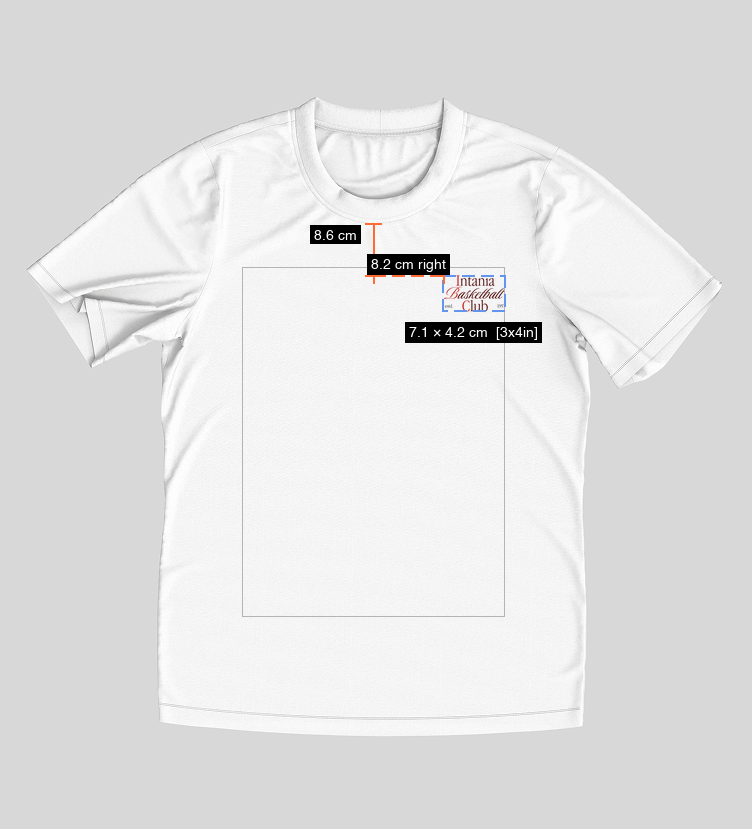
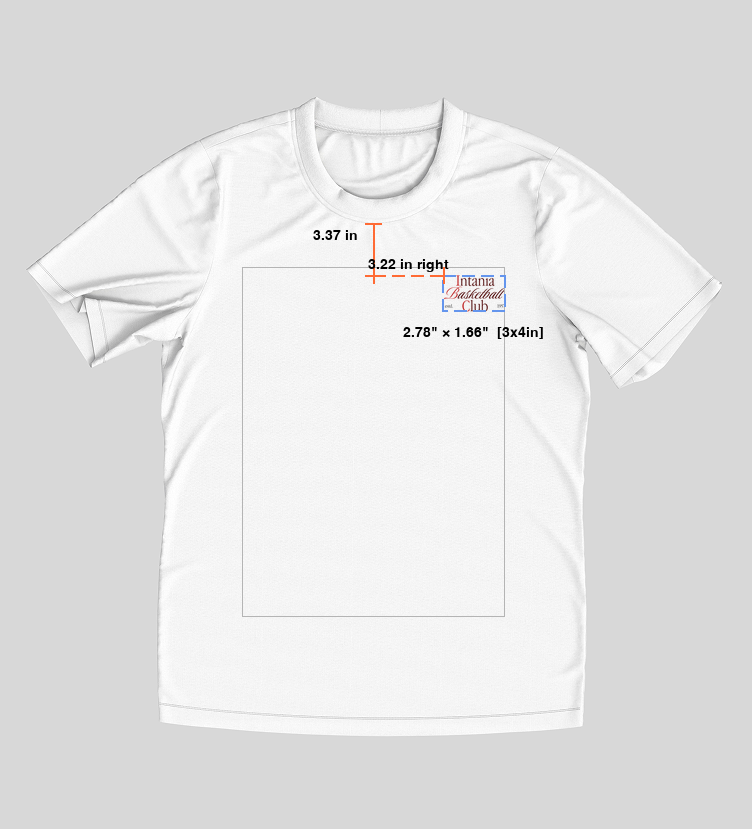
feat: Migrate print annotation script and labels from centimeters to inches, improve font loading, and update default mockup configuration.

Changed region(s): [[0.5199, 0.3619, 0.734, 0.4222], [0.4894, 0.3016, 0.6117, 0.3317], [0.3976, 0.2714, 0.4894, 0.3016]]

diff --git a/tools/annotate_print.py b/tools/annotate_print.py
@@ -9,7 +9,7 @@ Usage:
      (or set MOCKUP_IMAGE_PATH directly to override).
   4. Run:  python tools/annotate_print.py
   5. Outputs:
-       <input>_annotated.png   — dotted-line overlays + cm labels
+       <input>_annotated.png   — dotted-line overlays + inch labels
        <input>_mockup_<side>.png — design composited on shirt
 
 Dependencies:
@@ -23,20 +23,20 @@ import numpy as np
 from PIL import Image, ImageDraw, ImageFont
 
 # ─── CONFIG ──────────────────────────────────────────────────────────────────
-INPUT_PATH    = "/Volumes/My Passport/Personal_Project/PimSuea/tools/test_data/IBC_front_printfile.png"   # ← set this
+INPUT_PATH    = "/Volumes/My Passport/Personal_Project/PimSuea/tools/test_data/IBC_back_printfile.png"   # ← set this
 OUTPUT_PATH   = None                        # None = auto: <input>_annotated.png
-PHYSICAL_W_CM = 30.48                       # 12 inches
-PHYSICAL_H_CM = 40.64                       # 16 inches
+PHYSICAL_W_IN = 12.0                        # inches
+PHYSICAL_H_IN = 16.0                        # inches
 
 ALPHA_THRESHOLD = 10   # pixels with alpha <= this are treated as empty
 WHITE_THRESHOLD = 245  # for RGB images: channels all above this = background
 
 # ─── MOCKUP CONFIG ───────────────────────────────────────────────────────────
 SHIRT_COLOR = "white"   # 'white' or 'black'
-SHIRT_SIDE  = "front"   # 'front' or 'back'
+SHIRT_SIDE  = "back"   # 'front' or 'back'
 
 # Override mockup image path (None = auto: tools/mockups/<color>_<side>.png)
-MOCKUP_IMAGE_PATH = "/Volumes/My Passport/Personal_Project/PimSuea/tools/test_data/front_white_mock_template.png"
+MOCKUP_IMAGE_PATH = "/Volumes/My Passport/Personal_Project/PimSuea/tools/test_data/back_white_mock_template.png"
 
 # Mockup canvas size and print-area placement (pixels)
 _MOCKUP_W = 752
@@ -48,8 +48,8 @@ _PLACEMENTS = {
 
 # Collar positions in each mockup image (px from the top of the image)
 COLLAR_Y = {"front": 223, "back": 144}
-# Fixed real-world distance from collar to the top of the print area (3 inches)
-COLLAR_TO_PRINT_AREA_CM = 7.62
+# Fixed real-world distance from collar to the top of the print area
+COLLAR_TO_PRINT_AREA_IN = 3.0
 
 # Visual style (applied at preview scale)
 ORANGE      = (255, 107, 53, 255)   # dimension measurement lines + labels
@@ -68,13 +68,13 @@ MARGIN_TOP  = 60        # top margin reserved for X offset line + label
 # ─────────────────────────────────────────────────────────────────────────────
 
 
-def get_print_tier(w_cm: float, h_cm: float) -> str:
+def get_print_tier(w_in: float, h_in: float) -> str:
     """Mirror of getPrintTier in backend/src/utils/pricing.js."""
-    short, long_ = sorted([w_cm, h_cm])
+    short, long_ = sorted([w_in, h_in])
     # Custom inch-based tiers: 3x4in, A5=6x8in, A4=8x12in, A3=12x16in (catch-all)
-    if short <= 7.62  and long_ <= 10.16: return "3x4in"
-    if short <= 15.24 and long_ <= 20.32: return "A5"
-    if short <= 20.32 and long_ <= 30.48: return "A4"
+    if short <= 3.0 and long_ <= 4.0:  return "3x4in"
+    if short <= 6.0 and long_ <= 8.0:  return "A5"
+    if short <= 8.0 and long_ <= 12.0: return "A4"
     return "A3"
 
 
@@ -121,14 +121,10 @@ def draw_dashed_line(draw, x1, y1, x2, y2, dash=DASH_LEN, gap=GAP_LEN,
 
 
 def draw_label(draw, text, cx, cy, font):
-    """Draw text with a dark pill background, centered at (cx, cy)."""
+    """Draw bold black text centered at (cx, cy), no background."""
     bbox = draw.textbbox((0, 0), text, font=font)
     tw, th = bbox[2] - bbox[0], bbox[3] - bbox[1]
-    pad = 4
-    rx0, ry0 = cx - tw // 2 - pad, cy - th // 2 - pad
-    rx1, ry1 = cx + tw // 2 + pad, cy + th // 2 + pad
-    draw.rectangle([rx0, ry0, rx1, ry1], fill=DARK_BG)
-    draw.text((cx - tw // 2, cy - th // 2), text, fill=WHITE, font=font)
+    draw.text((cx - tw // 2, cy - th // 2), text, fill=(0, 0, 0, 255), font=font)
 
 
 def composite_on_mockup(
@@ -172,9 +168,19 @@ def composite_on_mockup(
     bx1 = px_off + int(measurements["x_max"] * sx)
     by1 = py_off + int(measurements["y_max"] * sy)
 
-    try:
-        font = ImageFont.truetype("/System/Library/Fonts/Helvetica.ttc", FONT_SIZE)
-    except Exception:
+    font = None
+    for path, idx in [
+        ("/System/Library/Fonts/Helvetica.ttc", 1),   # Helvetica Bold
+        ("/System/Library/Fonts/Supplemental/Arial Bold.ttf", 0),
+        ("/Library/Fonts/Arial Bold.ttf", 0),
+        ("/System/Library/Fonts/Helvetica.ttc", 0),   # fallback: regular
+    ]:
+        try:
+            font = ImageFont.truetype(path, FONT_SIZE, index=idx)
+            break
+        except Exception:
+            continue
+    if font is None:
         font = ImageFont.load_default()
 
     # Derived positions
@@ -197,7 +203,7 @@ def composite_on_mockup(
     draw.line([(collar_x, collar_y), (collar_x, elem_top_y)], fill=ORANGE, width=LINE_W)
     draw.line([(collar_x - TICK, collar_y),    (collar_x + TICK, collar_y)],    fill=ORANGE, width=LINE_W)
     draw.line([(collar_x - TICK, elem_top_y),  (collar_x + TICK, elem_top_y)],  fill=ORANGE, width=LINE_W)
-    y_total_label = f"{measurements['collar_to_elem_cm']:.1f} cm"
+    y_total_label = f"{measurements['collar_to_elem_in']:.2f} in"
     # Y label: hugs the collar tick from below, left side — always above X label
     draw_label(draw, y_total_label, collar_x - TICK - 30, collar_y + FONT_SIZE // 2 + 4, font)
 
@@ -207,7 +213,7 @@ def composite_on_mockup(
         draw_dashed_line(draw, collar_x, elem_top_y, bx0, elem_top_y, color=ORANGE)
         draw.line([(collar_x, elem_top_y - TICK), (collar_x, elem_top_y + TICK)], fill=ORANGE, width=LINE_W)
         draw.line([(bx0,      elem_top_y - TICK), (bx0,      elem_top_y + TICK)], fill=ORANGE, width=LINE_W)
-        x_label_text = f"{measurements['x_offset_cm']:.1f} cm {x_dir}"
+        x_label_text = f"{measurements['x_offset_in']:.2f} in {x_dir}"
         mid_h = (collar_x + bx0) // 2
         # X label: hugs the element-top tick from above — always below Y label
         draw_label(draw, x_label_text, mid_h, elem_top_y - FONT_SIZE // 2 - 4, font)
@@ -240,29 +246,29 @@ def annotate(input_path: str, output_path: str | None = None):
         img_full = Image.open(src).convert("RGBA")
         mockup_src_stem = src.stem
     W, H = img_full.size
-    px_to_cm = PHYSICAL_W_CM / W          # cm per pixel (full resolution)
+    px_to_in = PHYSICAL_W_IN / W          # inches per pixel (full resolution)
     center_x = W / 2
 
     x_min, y_min, x_max, y_max = find_content_bbox(img_full)
 
-    elem_w_cm   = (x_max - x_min) * px_to_cm
-    elem_h_cm   = (y_max - y_min) * px_to_cm
-    y_cm        = y_min * px_to_cm
-    x_offset_cm = abs(x_min - center_x) * px_to_cm
+    elem_w_in   = (x_max - x_min) * px_to_in
+    elem_h_in   = (y_max - y_min) * px_to_in
+    y_in        = y_min * px_to_in
+    x_offset_in = abs(x_min - center_x) * px_to_in
     x_dir       = ("right" if x_min > center_x + 1
                    else "left" if x_min < center_x - 1
                    else "centered")
-    tier        = get_print_tier(elem_w_cm, elem_h_cm)
+    tier        = get_print_tier(elem_w_in, elem_h_in)
 
     # ── Console summary ──────────────────────────────────────────────────────
     print(f"\n{'─'*48}")
     print(f"  File       : {src.name}")
-    print(f"  Image size : {W} × {H} px  ({PHYSICAL_W_CM} × {PHYSICAL_H_CM:.2f} cm)")
-    print(f"  1 px       = {px_to_cm*10:.4f} mm")
+    print(f"  Image size : {W} × {H} px  ({PHYSICAL_W_IN} × {PHYSICAL_H_IN:.2f} in)")
+    print(f"  1 px       = {px_to_in:.6f} in")
     print(f"{'─'*48}")
-    print(f"  Element    : {elem_w_cm:.2f} cm × {elem_h_cm:.2f} cm  [{tier}]")
-    print(f"  Y from top : {y_cm:.2f} cm")
-    print(f"  X offset   : {x_offset_cm:.2f} cm {'' if x_dir == 'centered' else x_dir}")
+    print(f"  Element    : {elem_w_in:.2f}\" × {elem_h_in:.2f}\"  [{tier}]")
+    print(f"  Y from top : {y_in:.2f} in")
+    print(f"  X offset   : {x_offset_in:.2f} in {'' if x_dir == 'centered' else x_dir}")
     print(f"{'─'*48}\n")
 
     # ── Build preview canvas at 1/PREVIEW_DIV scale ──────────────────────────
@@ -290,9 +296,19 @@ def annotate(input_path: str, output_path: str | None = None):
     # top of the image area in the expanded canvas
     img_top = oy
 
-    try:
-        font = ImageFont.truetype("/System/Library/Fonts/Helvetica.ttc", FONT_SIZE)
-    except Exception:
+    font = None
+    for path, idx in [
+        ("/System/Library/Fonts/Helvetica.ttc", 1),   # Helvetica Bold
+        ("/System/Library/Fonts/Supplemental/Arial Bold.ttf", 0),
+        ("/Library/Fonts/Arial Bold.ttf", 0),
+        ("/System/Library/Fonts/Helvetica.ttc", 0),   # fallback: regular
+    ]:
+        try:
+            font = ImageFont.truetype(path, FONT_SIZE, index=idx)
+            break
+        except Exception:
+            continue
+    if font is None:
         font = ImageFont.load_default()
 
     # 0. Print area border
@@ -315,7 +331,7 @@ def annotate(input_path: str, output_path: str | None = None):
     # Horizontal connector from the left margin line to the element's top edge
     draw_dashed_line(draw, vx, by0, bx0, by0, color=ORANGE)
     mid_y = (img_top + by0) // 2
-    y_label = "0.0 cm from top" if y_cm < 0.05 else f"{y_cm:.1f} cm from top"
+    y_label = "0.00 in from top" if y_in < 0.005 else f"{y_in:.2f} in from top"
     draw_label(draw, y_label, MARGIN_LEFT // 2, mid_y, font)
 
     # 3. X offset — horizontal line in top margin, from area center-x to element left edge
@@ -326,11 +342,11 @@ def annotate(input_path: str, output_path: str | None = None):
     # Vertical connector from top margin line down to element's top-left corner
     draw_dashed_line(draw, bx0, hy, bx0, by0, color=ORANGE)
     x_label = ("centered" if x_dir == "centered"
-               else f"{x_offset_cm:.1f} cm {x_dir}")
+               else f"{x_offset_in:.2f} in {x_dir}")
     draw_label(draw, x_label, (cx_s + bx0) // 2, hy // 2 + 4, font)
 
     # 4. Size + tier label below the bounding box
-    size_text = f"{elem_w_cm:.1f} × {elem_h_cm:.1f} cm  [{tier}]"
+    size_text = f"{elem_w_in:.2f}\" × {elem_h_in:.2f}\"  [{tier}]"
     draw_label(draw, size_text, (bx0 + bx1) // 2, by1 + PAD + FONT_SIZE // 2, font)
 
     canvas.save(out)
@@ -349,9 +365,9 @@ def annotate(input_path: str, output_path: str | None = None):
         "x_label": x_label,
         "size_text": size_text,
         "collar_y": COLLAR_Y.get(SHIRT_SIDE, 223),
-        "collar_to_elem_cm": COLLAR_TO_PRINT_AREA_CM + y_cm,
+        "collar_to_elem_in": COLLAR_TO_PRINT_AREA_IN + y_in,
         "x_dir": x_dir,
-        "x_offset_cm": x_offset_cm,
+        "x_offset_in": x_offset_in,
     }
     composite_on_mockup(img_full, mockup_path, placement, mockup_out, measurements)
 
